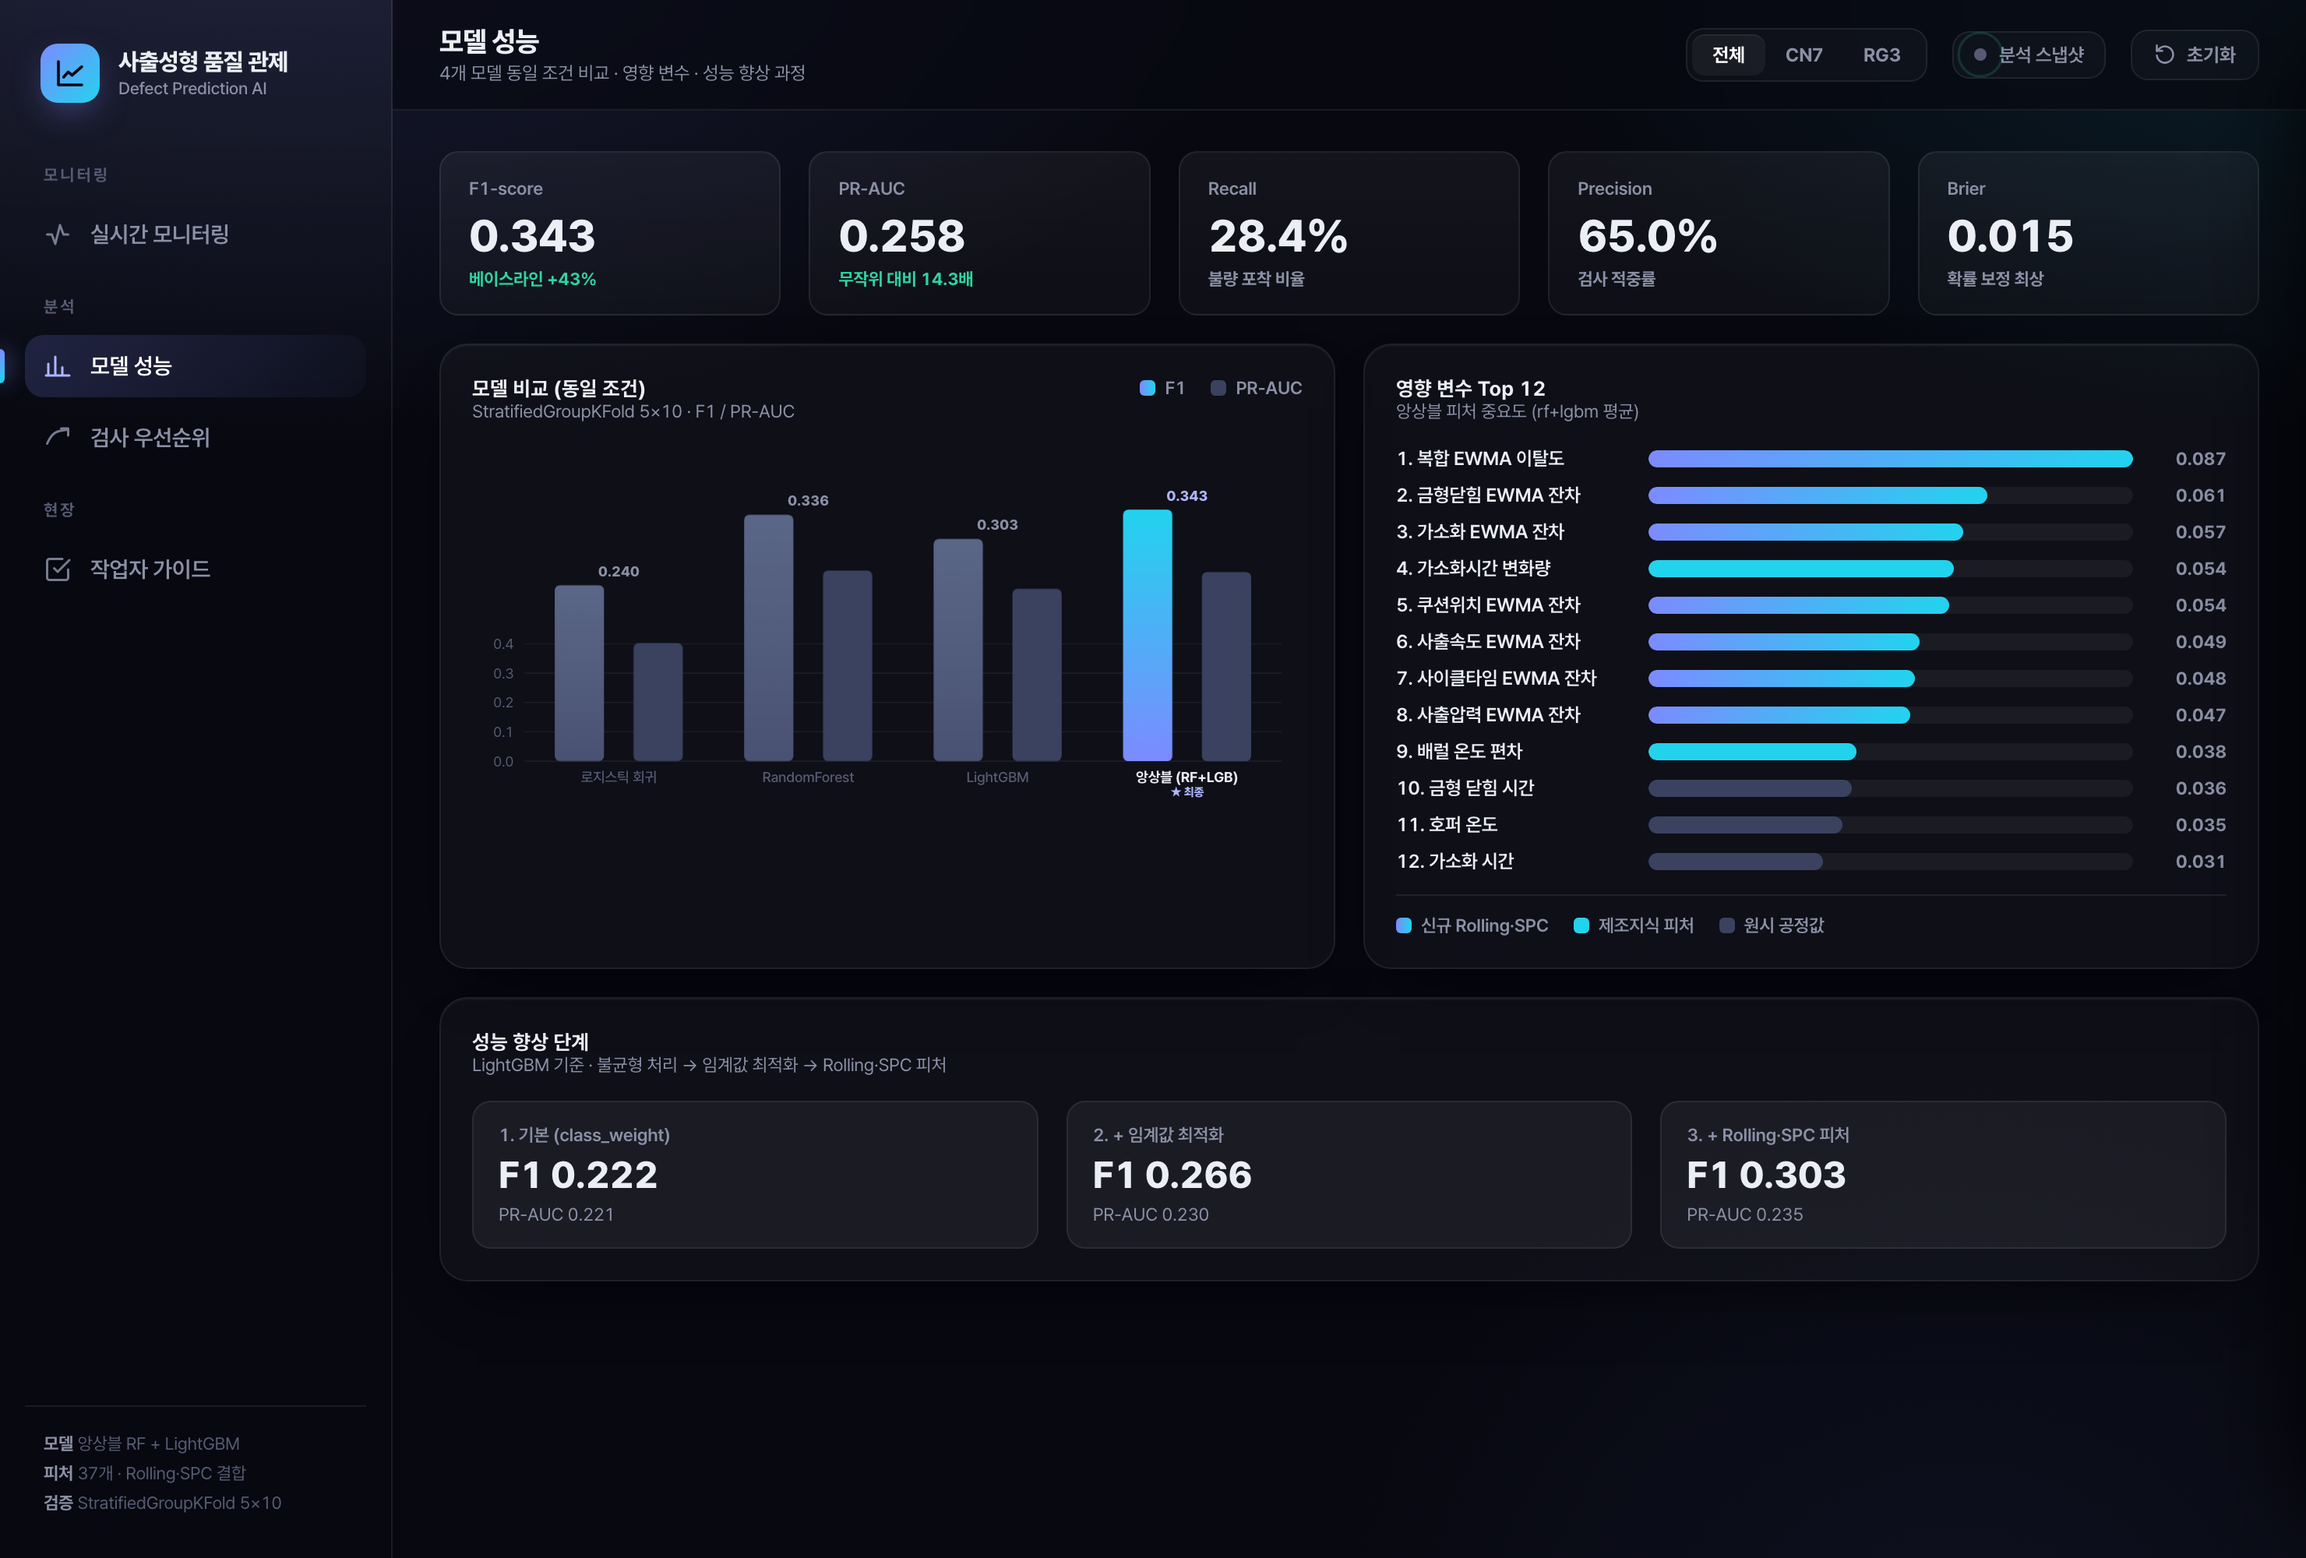
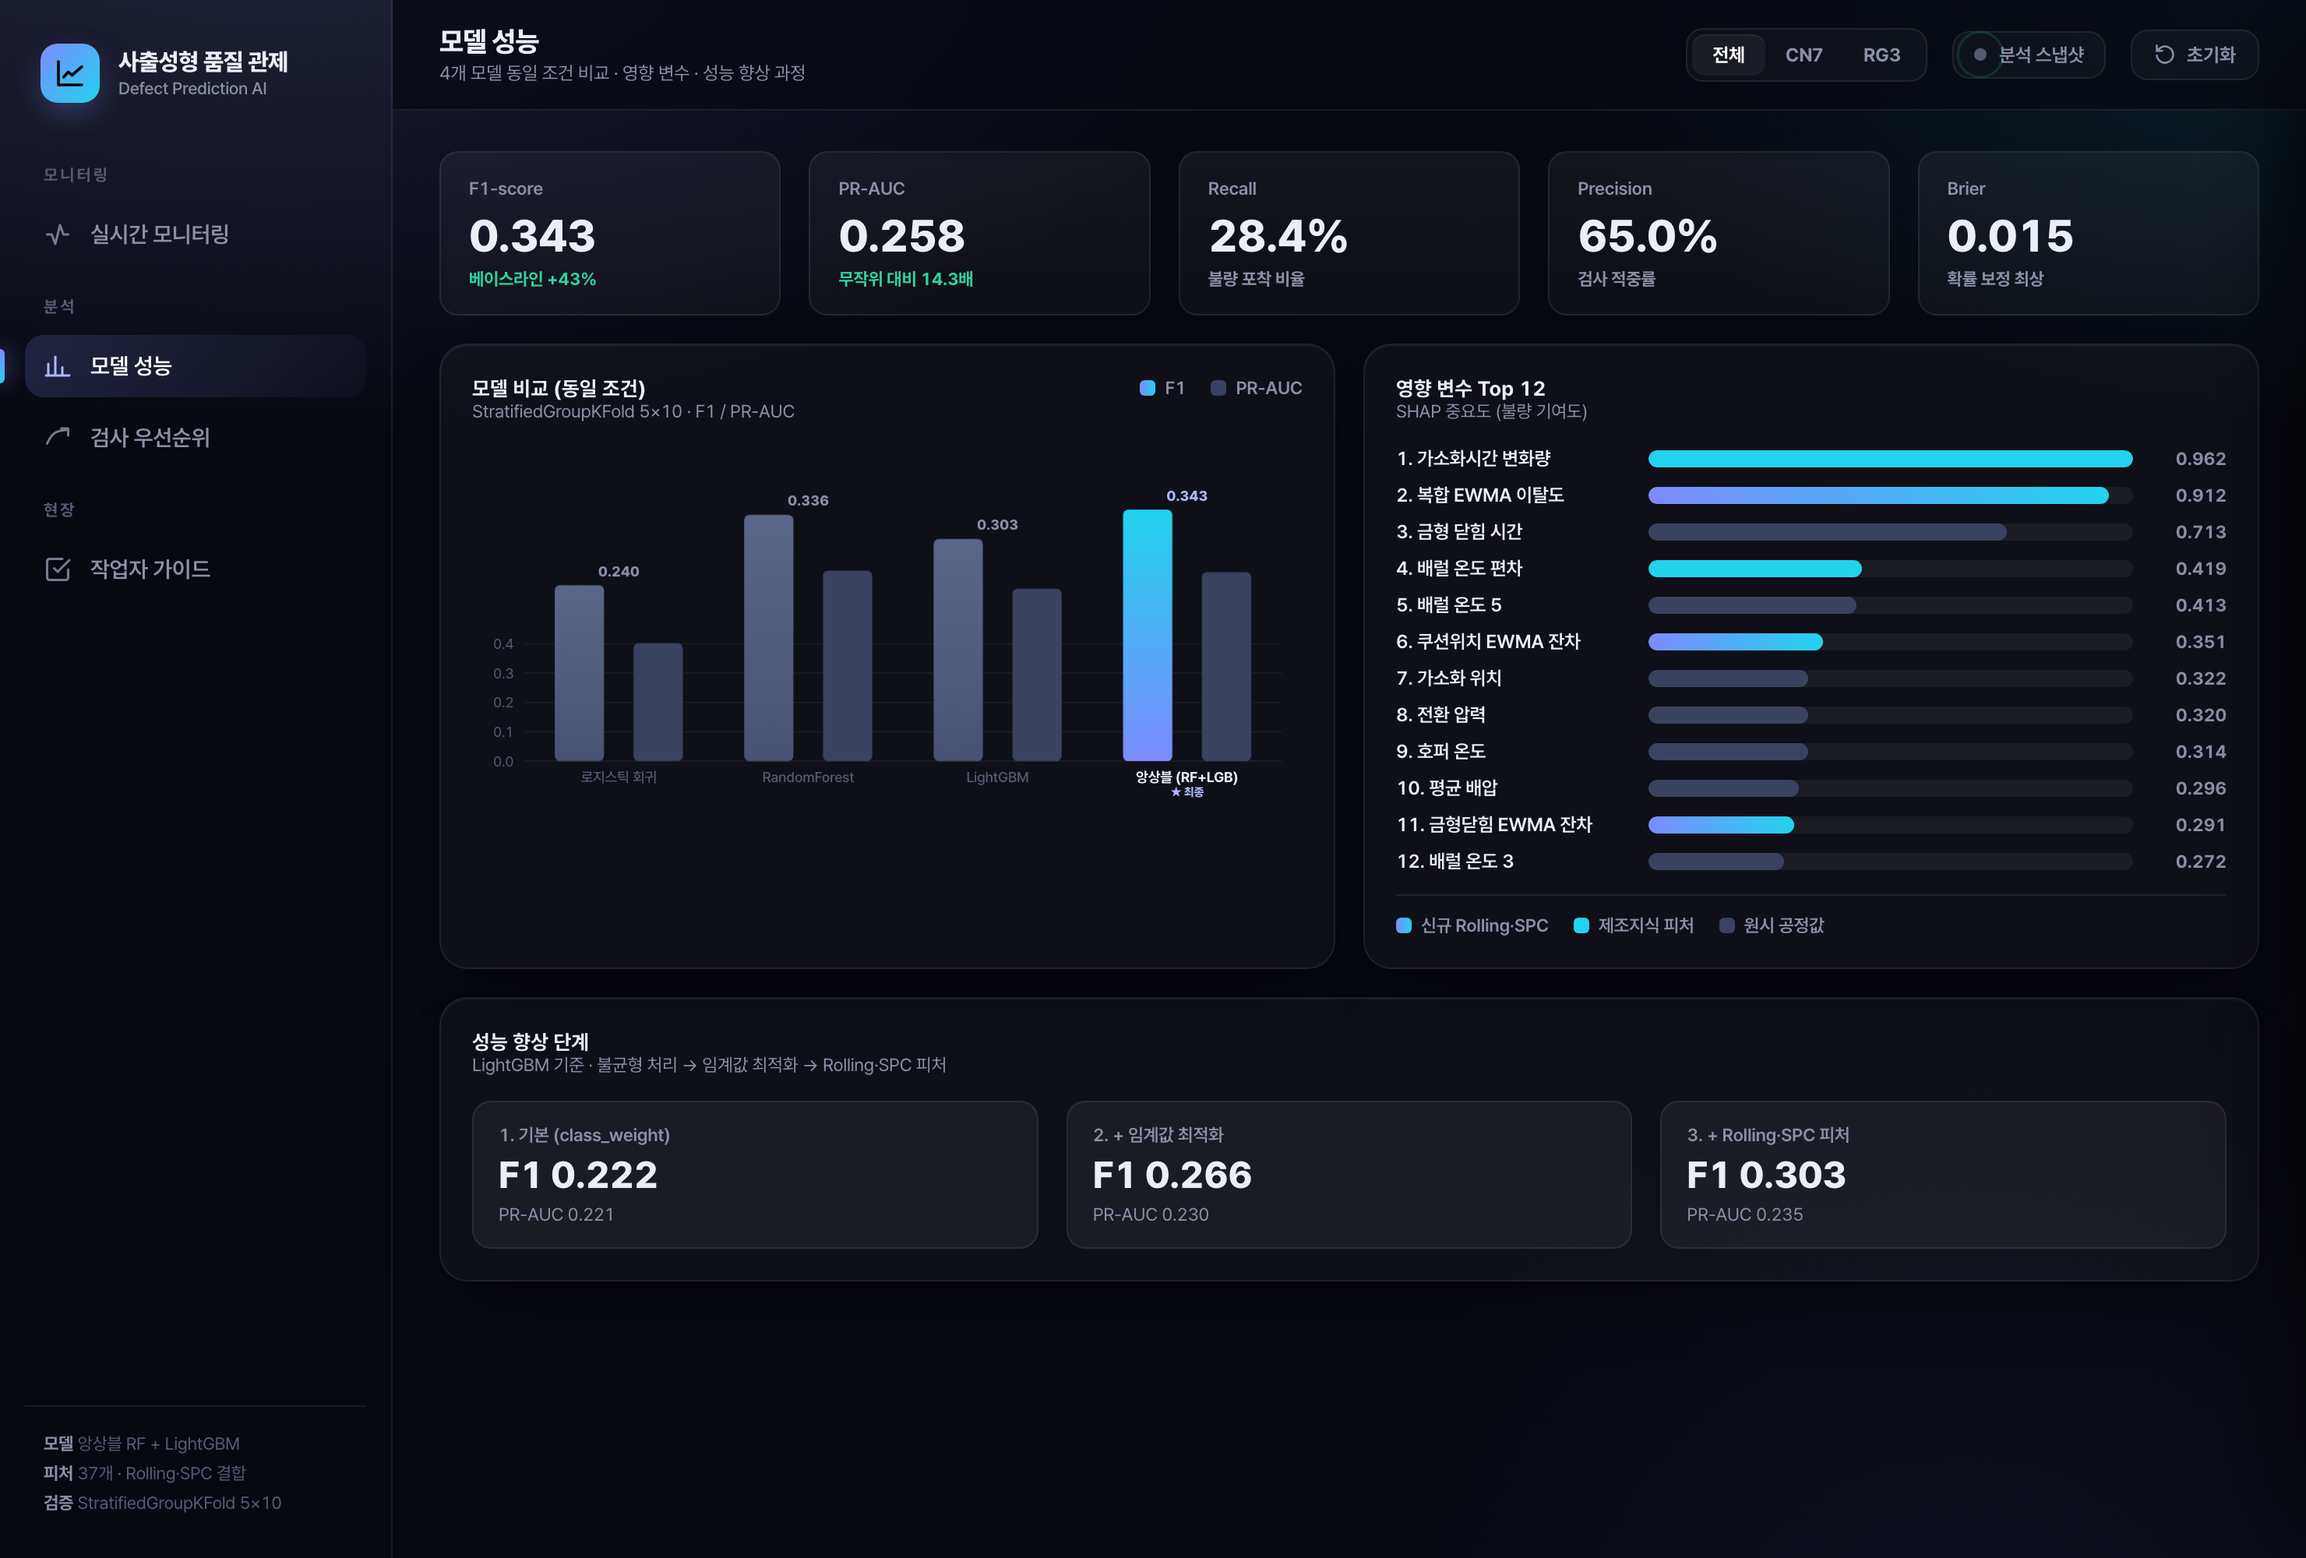
대시보드 영향변수를 SHAP 기준으로 통일 (보고서 3장과 일치)
- /model-info 피처 중요도를 gain→SHAP(final_lgbm)로 변경, 데이터 미가용 시 gain 폴백
- 대시보드 #1이 가소화시간 변화량으로 보고서와 동일

diff --git a/app/static/index.html b/app/static/index.html
@@ -378,7 +378,7 @@
 
         <div class="panel">
           <div class="phead">
-            <div><h2>영향 변수 Top 12</h2><div class="sub">앙상블 피처 중요도 (rf+lgbm 평균)</div></div>
+            <div><h2>영향 변수 Top 12</h2><div class="sub">SHAP 중요도 (불량 기여도)</div></div>
           </div>
           <div class="fi" id="fiList"></div>
           <div class="legend" style="margin-top:14px;padding-top:12px;border-top:1px solid var(--border)">

diff --git a/app/main.py b/app/main.py
@@ -157,22 +157,28 @@ def compute_model_info() -> dict:
     except Exception:
         info["pr_auc_live"] = None
 
-    # 실제 피처 중요도 (앙상블 rf+lgbm 평균, 정규화)
+    # 피처 중요도 — SHAP(보고서 3장과 일치). 데이터/shap 미가용 시 gain으로 폴백
     try:
+        import shap
+        from src.features import load_labeled
+        Xlab, _, _ = make_features(load_labeled(), is_train=True)
+        sv = shap.TreeExplainer(MODEL.named_estimators_["lgbm"]).shap_values(Xlab)
+        sv = sv[1] if isinstance(sv, list) else sv
+        imp = np.abs(sv).mean(0)
+        info["importance_method"] = "SHAP"
+    except Exception:
         rf = MODEL.named_estimators_["rf"].feature_importances_.astype(float)
         lg = MODEL.named_estimators_["lgbm"].feature_importances_.astype(float)
-        rf, lg = rf / rf.sum(), lg / lg.sum()
-        imp = (rf + lg) / 2
-        pairs = sorted(zip(FEATURE_COLS, imp), key=lambda x: -x[1])[:12]
-        mx = pairs[0][1]
-        info["feature_importance"] = [
-            {"name": c, "label": FEATURE_LABELS.get(c, c),
-             "value": round(float(v), 4), "rel": round(float(v / mx), 4),
-             "group": _feature_group(c)}
-            for c, v in pairs
-        ]
-    except Exception:
-        info["feature_importance"] = []
+        imp = (rf / rf.sum() + lg / lg.sum()) / 2
+        info["importance_method"] = "gain"
+    pairs = sorted(zip(FEATURE_COLS, imp), key=lambda x: -x[1])[:12]
+    mx = pairs[0][1] or 1.0
+    info["feature_importance"] = [
+        {"name": c, "label": FEATURE_LABELS.get(c, c),
+         "value": round(float(v), 4), "rel": round(float(v / mx), 4),
+         "group": _feature_group(c)}
+        for c, v in pairs
+    ]
 
     # 보고서(report_notes ch2/ch3) 확정 수치
     info["metrics"] = {"f1": 0.343, "pr_auc": 0.258, "recall": 0.284,
